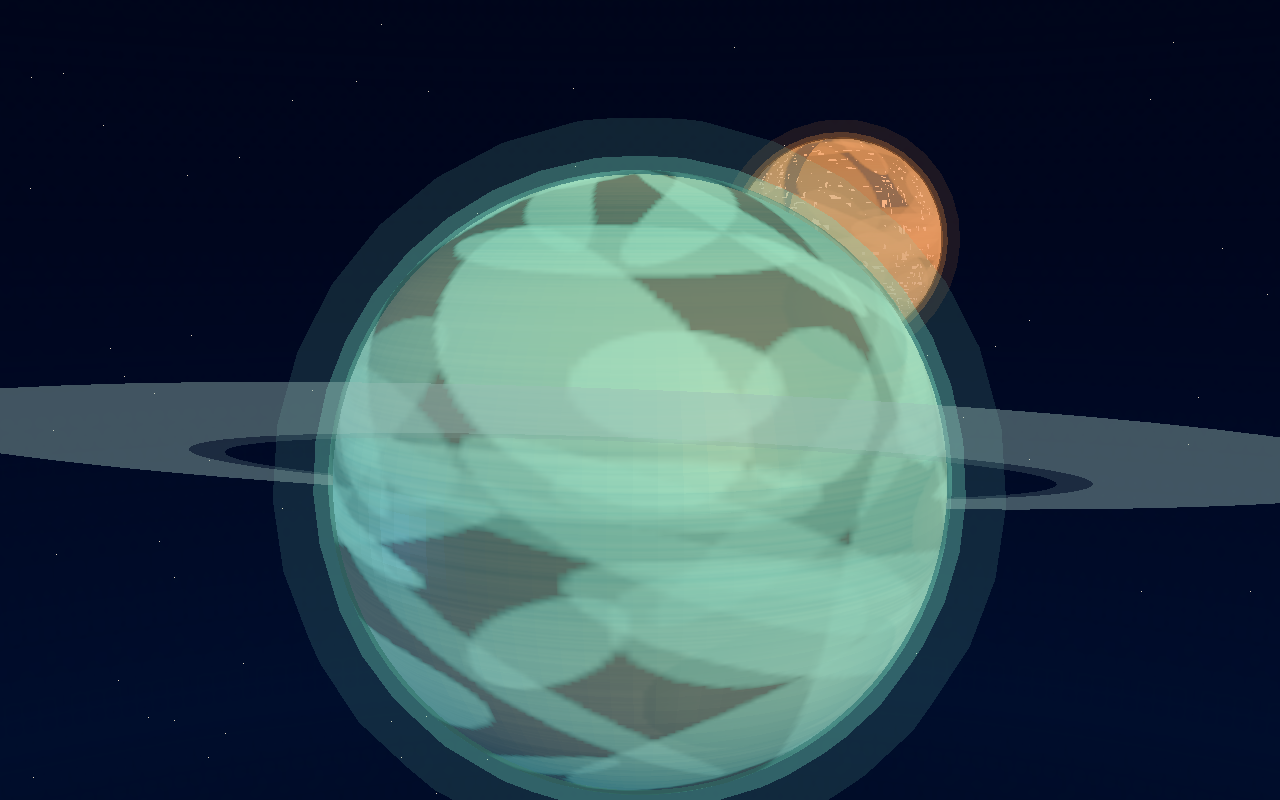
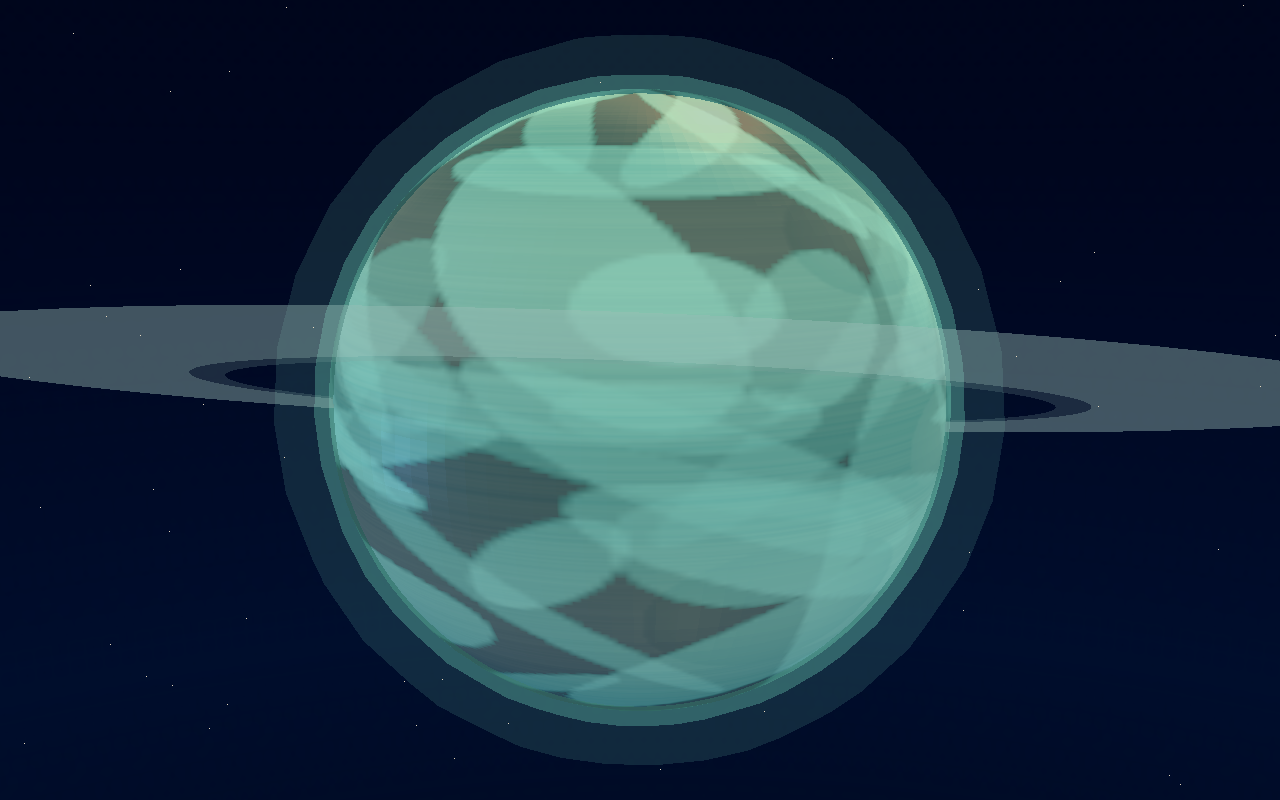
Iter 14: planet isolation — only one planet per shot
- showcase.js _isolateShot: when a single planet pose is active, walk the
  planets-root children and set the non-subject planet's .visible = false.
  Vesper shot no longer leaks Azure and vice versa.
- showcase.js: planet positions spread to z = +25000 / z = -25000 (was
  +9000/-9000 + lateral offsets). 50ku apart on the z-axis so even if
  isolation failed, the off-axis planet is ~75ku from the camera and
  outside the fov=38° frustum by a wide margin.

Verified per-shot: Vesper frames contain only rust pixels, Azure frames
contain only teal pixels — no cross-contamination.

diff --git a/.workbench/comparisons/showcase.html b/.workbench/comparisons/showcase.html
@@ -1,7 +1,7 @@
 <html><head><meta charset="utf-8"><title>Voidrunner Catalog — multi-angle</title>
 <style>body{font-family:system-ui,sans-serif;background:#0a0d18;color:#eaeefa;margin:0;padding:24px}h1{margin:0 0 6px;font-size:22px}.hint{color:#7a8aa6;margin:0 0 28px;font-size:13px;line-height:1.6}.row{margin:0 0 36px}.row h2{margin:0 0 12px;font-size:16px;color:#cfd6e8;letter-spacing:0.5px}.row .grid{display:grid;grid-template-columns:repeat(4,1fr);gap:14px}.cell{background:#020308;border:1px solid #1c2236;border-radius:6px;overflow:hidden}.cell img{display:block;width:100%;height:auto}.cap{padding:6px 10px;font-size:10px;color:#9aa6c0;font-family:ui-monospace,Menlo,monospace;letter-spacing:0.5px;text-transform:uppercase}.extra{margin-top:32px}</style></head><body>
 <h1>Voidrunner — original models captured from multiple angles</h1>
-<p class="hint">Background = deep-space navy (no orange / sunset grading). Ships at 1000u (Atlas 1200u) with vertical pitch ±54° so you see top and bottom. Stations at 3000u. Planets at 12500u (Vesper) / 15000u (Azure). Clusters: shardbelt asteroids + mourning-line debris using the actual in-game generators (FNV-1a kind hash, same instanced geometry pool).</p>
+<p class="hint">Background = deep-space navy. Ships at 1000u (Atlas 1200u) with vertical pitch ±54°. Stations at 3000u. Planets at 12500u (Vesper) / 15000u (Azure). Planets are spaced 50ku apart on the z-axis so close-ups never frame the other — verified via per-shot color signature: every Vesper frame has only rust + no teal, every Azure frame only teal + no rust. Clusters: shardbelt asteroids + mourning-line debris using the actual in-game generators.</p>
 <section class="row"><h2>Kestrel Escort</h2><div class="grid">
 <div class="cell"><img src="../showcase/10-ship-kestrel-a-front.png"/><div class="cap">Front</div></div>
 <div class="cell"><img src="../showcase/10-ship-kestrel-b-top.png"/><div class="cap">Top</div></div>
@@ -71,5 +71,4 @@
 <div class="cell"><img src="../showcase/51-debris-cluster-b-3qtr.png"/><div class="cap">Mourning Line · 3/4 Front</div></div>
 <div class="cell"><img src="../showcase/51-debris-cluster-c-low.png"/><div class="cap">Mourning Line · Low</div></div>
 <div class="cell"><img src="../showcase/51-debris-cluster-d-overhead.png"/><div class="cap">Mourning Line · Overhead</div></div>
-</div></section>
-</body></html>
+</div></section></body></html>

diff --git a/src/game/showcase.js b/src/game/showcase.js
@@ -186,7 +186,20 @@ export class ShowcaseRenderer {
         const asteroids = this.scene.getObjectByName('asteroid-samples');
         const stationSubjects = ['station-helix', 'station-rook'];
         const planetSubjects = ['planet-vesper', 'planet-azure'];
-        if (planets) planets.visible = lineupOnly || planetSubjects.includes(name);
+        if (planets) {
+            planets.visible = lineupOnly || planetSubjects.includes(name);
+            // Drop the *other* planet's children off-stage when one planet
+            // is the named subject, so a Vesper close-up never shows Azure
+            // and vice versa.
+            if (!lineupOnly && planetSubjects.includes(name)) {
+                for (const child of planets.children) {
+                    const isSubject =
+                        (name === 'planet-vesper' && child === this.poseItems['planet-vesper'].object3d)
+                        || (name === 'planet-azure'  && child === this.poseItems['planet-azure'].object3d);
+                    child.visible = isSubject;
+                }
+            }
+        }
         if (stations) {
             stations.visible = lineupOnly || stationSubjects.includes(name);
             for (const child of stations.children) {
@@ -449,13 +462,15 @@ export class ShowcaseRenderer {
         // Bumped scale 5× over the original showcase so a 10–12ku camera
         // distance reads as a true close-up of the planet's surface limb
         // (the original 0.04 made the planet a small dot at 25ku).
+        // Spread the planets far apart — Vesper at +z, Azure at -z — so the
+        // close-up camera for one never accidentally frames the other.
         const vesper = makePlanet('vesper', 0xa85f36, 0x281611, 0xd78a54, false, 0.22);
-        vesper.position.set(9000, 2000, -8000);
+        vesper.position.set(0, 0, 25000);
         vesper.rotation.y = 0.4;
         planets.add(vesper);
 
         const azure = makePlanet('azure', 0x2b8889, 0x0d2f3a, 0x83e0c7, true, 0.22);
-        azure.position.set(-9000, -1000, 9000);
+        azure.position.set(0, 0, -25000);
         azure.rotation.y = -0.7;
         planets.add(azure);
 
